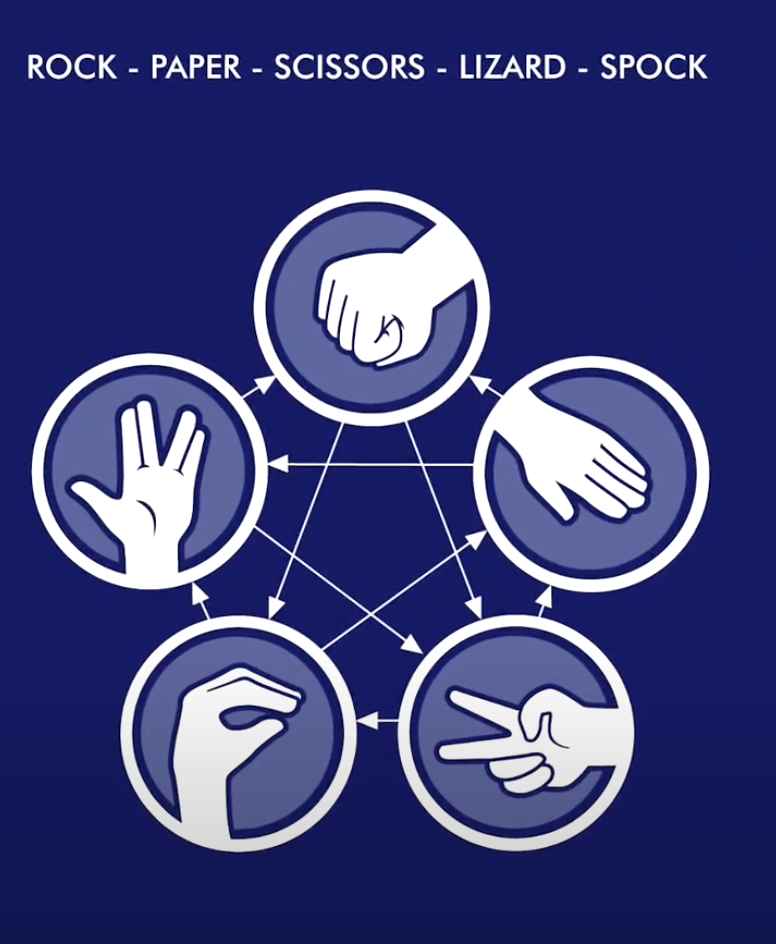
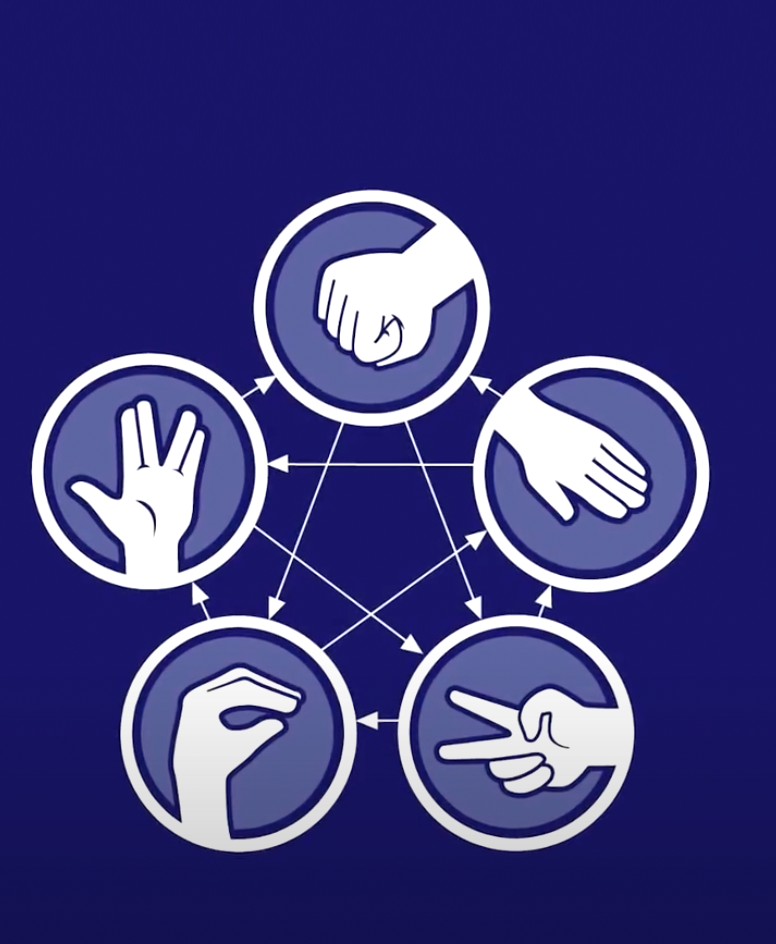
feat: popup update

diff --git a/src/components/Rulls/Rulls.scss b/src/components/Rulls/Rulls.scss
@@ -1,5 +1,15 @@
 .rulls {
+    position: relative;
     &__img {
         max-width: 100%;
+    }
+    &__description {
+        position: absolute;
+        color: white;
+        font-size: 1rem;
+        font-weight: 600;
+        text-align: center;
+        margin: 0;
+        width: 90%;
     }
 }

diff --git a/src/components/Rulls/Rulls.jsx b/src/components/Rulls/Rulls.jsx
@@ -24,6 +24,7 @@ const Rulls = () => {
           </Modal.Title>
         </Modal.Header>
         <Modal.Body>
+          <p className="rulls__description">{t('gameTitle')}</p>
           <img className="rulls__img" src={ rullsImg } alt=""/>
         </Modal.Body>
       </Modal>
